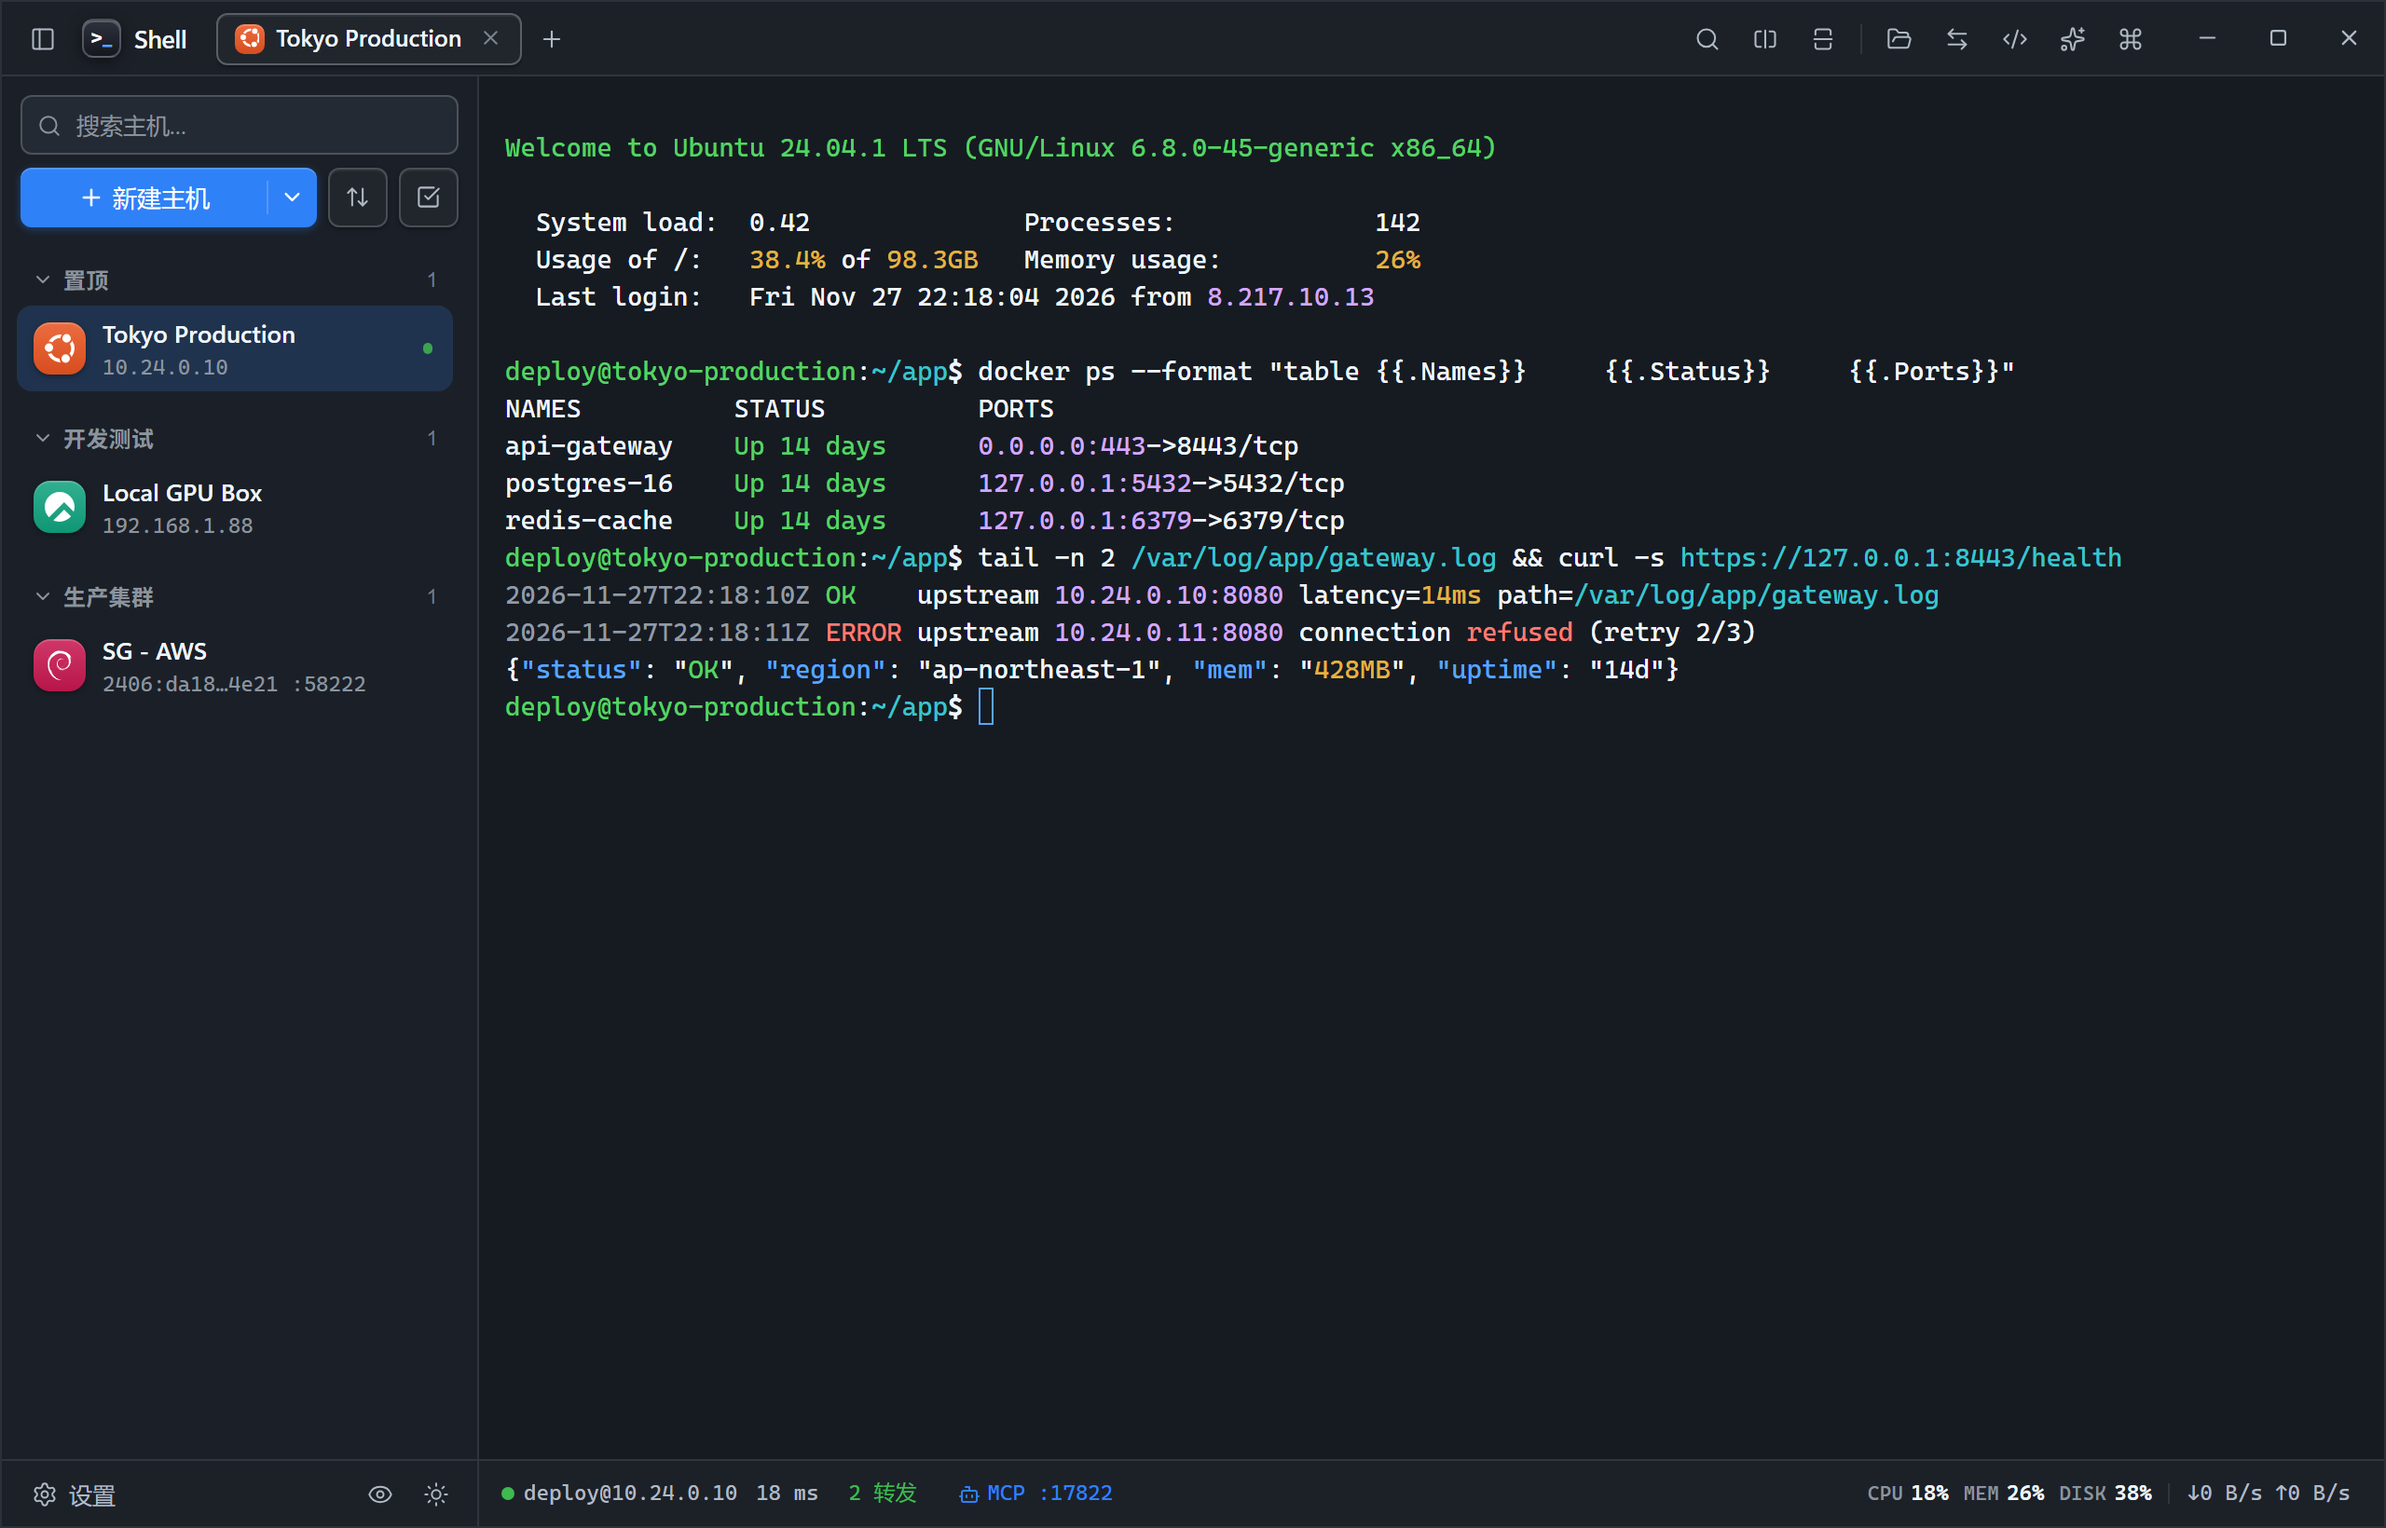
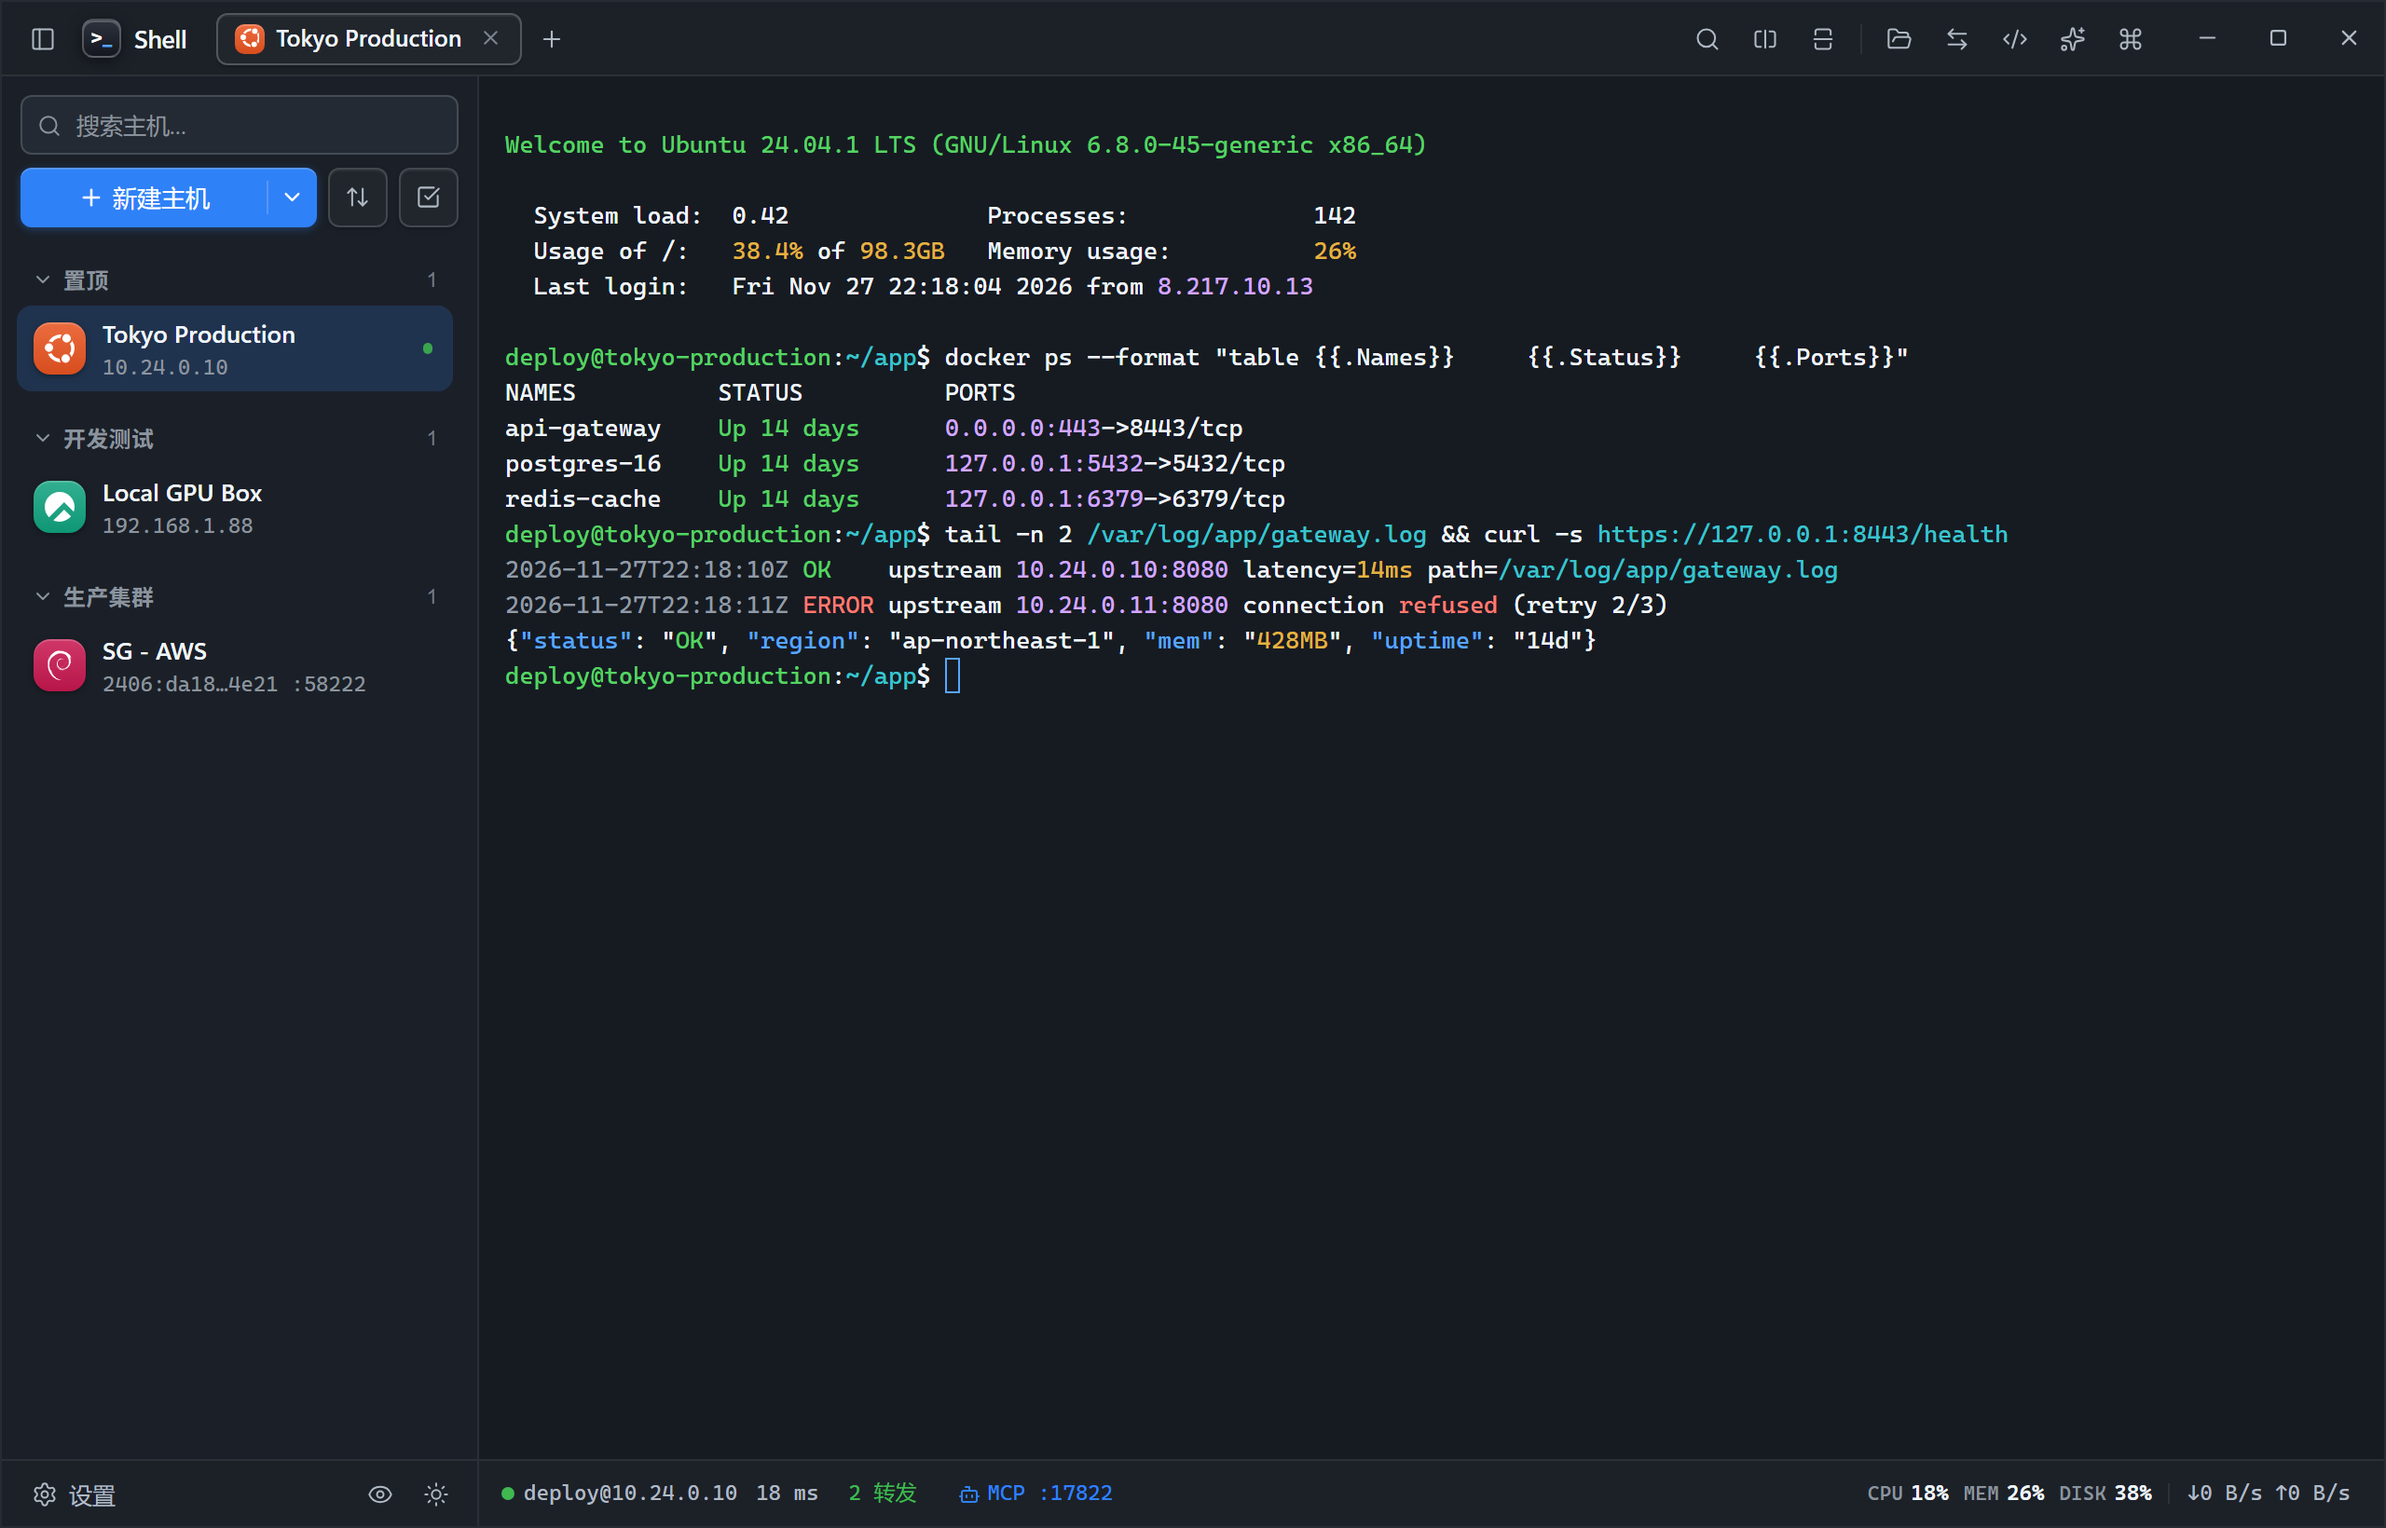
chore(release): 发布 v1.5.13
- 更新前端版本号至 1.5.13 并补充 v1.5.13 中文版本变更记录
- 刷新文档中的浅色工作台、深色终端与 SFTP 预览截图

Changed region(s): [[0.1875, 0.0933, 0.875, 0.4665]]

diff --git a/CHANGELOG.md b/CHANGELOG.md
@@ -2,6 +2,15 @@
 
 本项目的版本变更遵循 [语义化版本 2.0.0](https://semver.org/lang/zh-CN/) 规范。
 
+## [1.5.13] - 2026-11-28
+
+### 终端排版校准、悬浮提示修复与控件光影统一打磨
+- **默认终端字号校准为 `13 px`**：前后端默认终端字号统一调整为 `13 px`，兼顾紧凑清晰的观感与更高的单屏信息密度。
+- **优化深色终端加粗字重与彩色徽章墨色**：将终端粗体字重由过重的 `700` 校准为温和精致的 `500`，并将深色色板 `black` 槽位与自动对比度阈值调整为柔和炭灰（`#222832` / `#24293D` / `#252538`）与 `4.5`，消除 `IPQuality` 等脚本输出中加粗中文字体突兀发粗及彩色徽章内墨色过黑的问题。
+- **修复弹窗打开后底层按钮悬浮提示残留**：解决点击左下角「设置」等按钮打开弹窗后，底层按钮悬浮提示（如「偏好设置 Ctrl+,」）偶发残留并浮于遮罩层之上的问题，为全站悬浮提示（Tooltip）补充弹窗遮罩遮挡感知、点击即关与焦点清理保护。
+- **统一分段切换与同类选中控件视觉语言**：将全站分段切换控件（`.segmented`）由深槽灰块样式重构为与其他输入控件一致的平底细框加柔和主题色选中胶囊，并同步对齐设置侧栏导航、服务商卡片、图标选择器、步进器分隔线及深色模式 SFTP 激活态的视觉表现。
+- **打磨全站五套配色柔和框线与多层羽化阴影**：为全部五套全局配色重校细腻阶梯框线（`--border-hairline` / `--border-card` / `--border-control` / `--border-strong`）与多层羽化阴影体系（`--shadow-card` / `--shadow-card-hover` / `--shadow-sm` / `--shadow-md` / `--shadow-lg`），优化「最近使用」卡片、快速连接框、欢迎页图标、设置分组卡片与 SFTP 传输卡片的层次感与悬停过渡。
+
 ## [1.5.12] - 2026-11-28
 
 ### 五套成熟全局配色全链路升级、浅色终端高对比度与交互打磨
